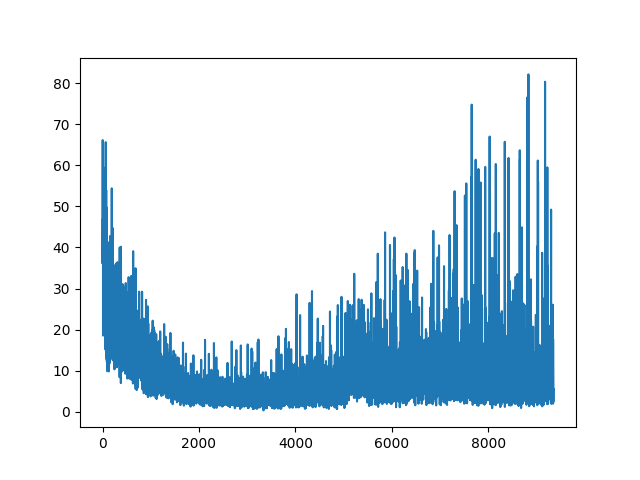
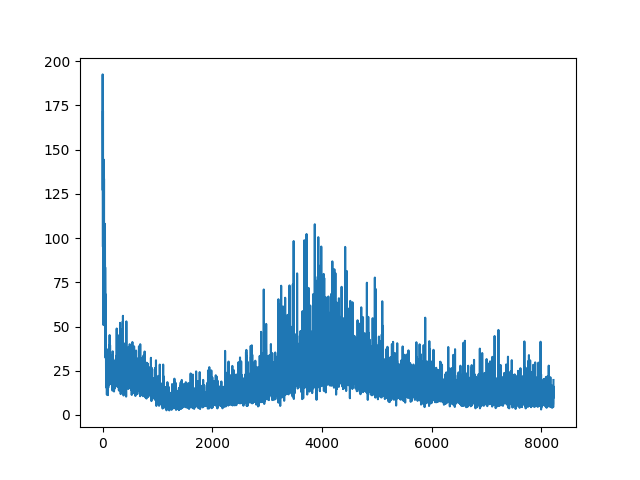
update

diff --git a/actor_critic_cat_mouse/a22c.py b/actor_critic_cat_mouse/a22c.py
@@ -60,21 +60,14 @@ def A2C(env:grid,
                 logits = {"cat":[],"mouse":[]}
                 agent.optimizerpi.zero_grad()
                 api["cat"],   logits["cat"] = cat.p(sample["state"]["cat"],sample["state"]["mouse"], logit = True)
-                api["mouse"],   logits["mouse"] = cat.p(sample["state"]["cat"],sample["state"]["mouse"], logit = True)
-                if label=="cat":
-                    logpi = F.cross_entropy(logits["cat"],rep_ac(api["cat"]),weight = None, reduction = 'none')
-                elif label=="mouse":
-                    logpi = F.cross_entropy(logits["mouse"],rep_ac(api["mouse"]),weight = None, reduction = 'none')
-                else:
-                    print("erreur")
-                    exit()
+                api["mouse"],   logits["mouse"] = mouse.p(sample["state"]["cat"],sample["state"]["mouse"], logit = True)
+                logpi = F.cross_entropy(logits[label],rep_ac(api[label]),weight = None, reduction = 'none')
                 #continue
                 #update actor
                 nploss = agent.updatePi(
                                 api,
                                 logpi,
                                 sample["state"])
-                #exit()
                 loss_pi[label].append(nploss.item())
                 loss_Q[label].append(loss_.item())
         mouse.update_target_net()

diff --git a/actor_critic_cat_mouse/test.py b/actor_critic_cat_mouse/test.py
@@ -31,10 +31,8 @@ def test(mouse:Mouse,cat:Mouse,env:grid):
         plt.close()
 
 if __name__=="__main__":
-    testmode = False
-    start = 800
     testmode = True
-    start = 3000
+    start = 2000
     epsilon = .3
     gamma = .99
     nx = 4
